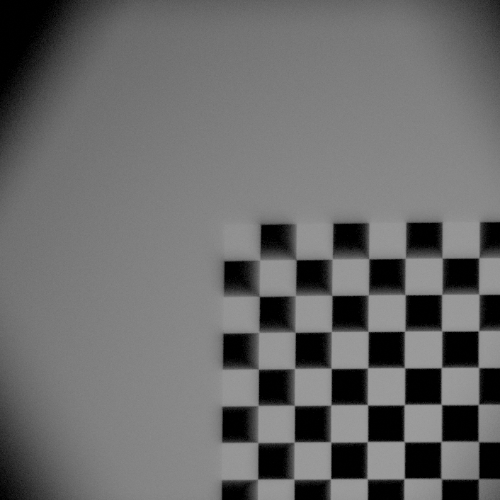
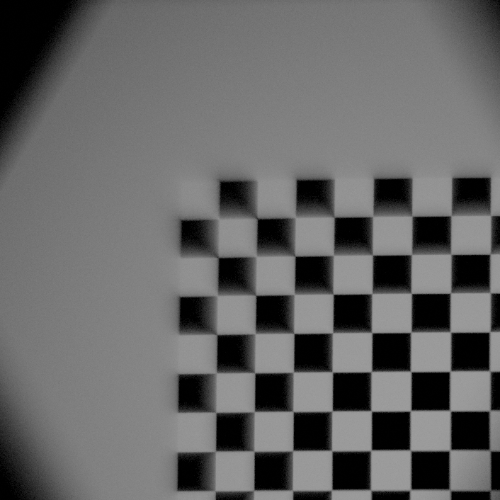
Improved Depth and new render

diff --git a/PlenopticViewer/depth.py b/PlenopticViewer/depth.py
@@ -1,7 +1,10 @@
 # Functions used to add depth sensing imaging to the GUI
 import tkinter as tk
 from tkinter import ttk
+
+import HDR
 import parallax
+from PIL import Image, ImageTk
 import cv2 as cv
 import numpy as np
 
@@ -30,14 +33,19 @@ class DepthPage(tk.Frame):
 
         # Find the main image fileName (middle image of the micro lens array)
         size = parallax.mml_size('par')
-        self.filename = parallax.image_filename('depth', int((size+1) / 2), int((size+1) / 2))
-        self.image = tk.PhotoImage(file='ParallaxAltered/' + self.filename)
+        self.filename = 'ParallaxAltered/' + parallax.image_filename('depth', int((size + 1) / 2), int((size + 1) / 2))
+
 
         # main image
+        depthMap = depth_calculate()
+        [sharp, averageValues, fullContours] = segment(depthMap, cv.imread(self.filename))
+        # make image displayable in tkinter
+        sharp = cv.cvtColor(sharp, cv.COLOR_BGR2RGB)
+        sharp = Image.fromarray(sharp)
+        self.image = ImageTk.PhotoImage(image=sharp)
+
         self.mainIm = tk.Label(self.slideImage, image=self.image)
         self.mainIm.grid(row=0, column=0)
-        depthMap = depth_calculate()
-        self.averageDepthMap = segment(depthMap)
         self.mainIm.bind("<B1-Motion>", self.show_depth)
 
         # Create parallax parameters frame in the left frame
@@ -151,7 +159,7 @@ def camera_calibrate():
     # find the points necessary for camera callibration
     ret, mtx, dist, rvecs, tvecs = cv.calibrateCamera(objpoints, imgpoints, gray.shape[::-1], None, None)
 
-    #read the required set of images (the parallax set for this application
+    # read the required set of images (the parallax set for this application
     imgArray = read_images('par')
     for i in range(0, size):
         for j in range(0, size):
@@ -164,45 +172,51 @@ def camera_calibrate():
             dst = cv.remap(img, mapx, mapy, cv.INTER_LINEAR)
             # crop the image
             x, y, w, h = roi
-            x = x+10
-            y = y+10
+            x = x + 10
+            y = y + 10
             # print('x :',x, ' y:  ',y, ' w: ',w, ' h: ',h)
             dst = dst[y:y + h - 10, x:x + w - 10]
             # resize the altered image to 500 pixels squared
             dst = cv.resize(dst, (500, 500))
-            filename = 'ParallaxAltered/' + parallax.image_filename('par', j+1, i+1)
+            filename = 'ParallaxAltered/' + parallax.image_filename('par', j + 1, i + 1)
             cv.imwrite(filename, dst)
             # cv.imshow('undistort', dst)
             # cv.waitKey(0)
 
 
-
-def depth_calculate(baseline=3, focalLength=4):
+def depth_calculate(baseline=0.05, focalLength=4, apSize=5):
     images = read_images('depth')
+    imageSize = images[1, 1].shape[0]
     size = parallax.mml_size('depth')
-    # find the middle two images- from which depth is calculated (only 2 are needed)
-    image1 = images[int((size * size) / 2)]
-    image2 = images[int((size * size) / 2 + size)]
+    # find the middle three images- from which depth is calculated (only 2 are needed)
+    image1 = images[int(size / 2), int(size / 2)]
+    image2 = images[int(size / 2) + 1, int(size / 2)]
+    image3 = images[int(size / 2) - 1, int(size / 2)]
 
-    cv.imshow('image1', image1)
-    cv.imshow('image2', image2)
+    # #median filter to remove drop pixels
+    # image1 = cv.medianBlur(image1, 3)
+    # image2 = cv.medianBlur(image2, 3)
 
+    # sharpen image
+    kernel = np.array([[-1, -1, -1], [-1, 9, -1], [-1, -1, -1]])
+    image1 = cv.filter2D(image1, -1, kernel)
+    image2 = cv.filter2D(image2, -1, kernel)
+    image3 = cv.filter2D(image3, -1, kernel)
 
-    #median filter to remove drop pixels
-    image1 = cv.medianBlur(image1, 3)
-    image2 = cv.medianBlur(image2, 3)
+    # cv.waitKey(0)
 
     # Set disparity parameters
     # Note: disparity range is tuned according to specific parameters obtained through trial and error.
     # allow users to tune
     # Create Block matching object.
     minDisparity = 0
-    numDisparities = 30
+    [a, horShift, b] = HDR.align_images('par')
+    numDisparities = abs(int(horShift))  # use the shift calculated to align the images
     stereo = cv.StereoSGBM_create(numDisparities=numDisparities,
-                                  blockSize=5,
-                                  P1=8*3*5*5,
-                                  P2=32*3*5*5,
-                                  preFilterCap=31,
+                                  blockSize=10,
+                                  P1=8 * 3 * 5 * 5,
+                                  P2=32 * 3 * 5 * 5,
+                                  preFilterCap=10,
                                   uniquenessRatio=10,
                                   speckleRange=0,
                                   speckleWindowSize=0,
@@ -211,38 +225,53 @@ def depth_calculate(baseline=3, focalLength=4):
                                   mode=1)
     # Compute disparity map
     print("\nComputing the disparity  map...")
-    disparityMap = stereo.compute(image1, image2) + 1
-
-    print(disparityMap.dtype)
+    disparityMap1 = stereo.compute(image3, image1)
+    disparityMap2 = stereo.compute(image1, image2)
 
     # convert the disparity map to the depth map
     # baseline is the distance between the centre of each mml in um (entered in GUI by user)
     # focal length is the focal length of the MML entered by user
 
-    disparityMap = disparityMap.astype(np.float32)
-    # Scaling down the disparity values and normalizing them
-    disparityMap = (disparityMap / 16.0 - minDisparity) / numDisparities
-    #
-    # #apply heavy median filtering to remove all the speckling
-    # disparityMap = cv.medianBlur(disparityMap, 7)
+    disparityMap1 = disparityMap1.astype(np.float32)
+    disparityMap2 = disparityMap2.astype(np.float32)
 
-    cv.imshow('dismap', disparityMap)
-    depthMap = (baseline * focalLength) / disparityMap
-    cv.imshow('depth', depthMap)
-    cv.waitKey(0)
-    return depthMap
+    # combine both dispartiy maps (average where the intersection is)
+    fullDismap = np.zeros([imageSize, imageSize], dtype=np.float32)
+
+    fullDismap[0:imageSize, 0:imageSize - numDisparities] = disparityMap1[0:imageSize, numDisparities:imageSize]
+    fullDismap[0:imageSize, numDisparities:imageSize] = disparityMap2[0:imageSize, numDisparities:imageSize]
+
+    # average the overlap
+    fullDismap[0:imageSize, numDisparities:imageSize - numDisparities] = (fullDismap[0:imageSize,
+                                                                          numDisparities:imageSize - numDisparities] + disparityMap1[
+                                                                                                                       0:imageSize,
+                                                                                                                       numDisparities * 2:imageSize]) * 0.5
+
+    # replace all zero values with 17 ( this will scale down in the next step to a  (avoids divide by zero error)
+    result = np.where(fullDismap < 17)
+    listOfIndices = list(zip(result[0], result[1]))
+
+    for i in range(0, len(listOfIndices)):
+        fullDismap[listOfIndices[i]] = 17
+
+    # Scaling down the disparity values and normalizing them
+    fullDismap = (fullDismap / 16.0 - minDisparity) / numDisparities
+
+    # cv.imshow('fulldismap', fullDismap)
+
+    fullDepthMap = np.reciprocal(fullDismap)
+    fullDepthMap = fullDepthMap * (baseline * focalLength)
+    # cv.imshow('depth', fullDepthMap)
+    # cv.waitKey(0)
+
+    return fullDepthMap
 
 
 # segment the image
-def segment(depthMap):
+def segment(depthMap, image):
     size = parallax.mml_size('depth')
-    selection = int((size - 1) / 2)
-    filename = parallax.image_filename('depth', selection, selection)
-    filename = 'ParallaxAltered/' + filename
-    orImage = cv.imread(filename)
-
     # median filter the image to remove non essential fine details
-    median = cv.medianBlur(orImage, 3)
+    median = cv.medianBlur(image, 5)
 
     # resharpen
     kernel = np.array([[0, -1, 0],
@@ -250,45 +279,49 @@ def segment(depthMap):
                        [0, -1, 0]])
     sharp = cv.filter2D(src=median, ddepth=-1, kernel=kernel)
 
-    # draw contours onto image
-    # make image grey scale
-    imgray = cv.cvtColor(sharp, cv.COLOR_BGR2GRAY)
-    # Find Canny edges
-    edged = cv.Canny(imgray, 190, 200)
+    # cv.imshow('sharp', sharp)
+    averageValue = []
+    fullcontours = []
 
-    # dilate the image to join the contours
-    kernel = cv.getStructuringElement(cv.MORPH_ELLIPSE, (3, 3))
-    dilated = cv.dilate(edged, kernel)
-    contours, hierarchy = cv.findContours(dilated.copy(), cv.RETR_EXTERNAL, cv.CHAIN_APPROX_SIMPLE)
+    # find contours in image on each channel
+    for i in range(0, sharp.shape[2]):
+        # make image grey scale
+        im = sharp[:, :, i]
 
-    for index in range(0, len(contours)):
-        colour = np.random.randint(0, 255, size=(3,))
+        im = cv.medianBlur(im, 7)
+        # Find Canny edges
+        edged = cv.Canny(im, 0, 150, apertureSize=3, L2gradient=True)
 
-        # convert data types int64 to int
-        colour = (int(colour[0]), int(colour[1]), int(colour[2]))
-        print(colour)
-        cv.drawContours(sharp, contours, index, colour, cv.FILLED, 8, hierarchy)
+        # dilate the image to join the contours
+        kernel = cv.getStructuringElement(cv.MORPH_ELLIPSE, (3, 3))
+        dilated = cv.dilate(edged, kernel)
 
-    # # write contours into a mask within which the depth is averaged and return both the segmented image and the average
-    # # depth map
-    # averageDepthMap = np.zeros(orImage.shape, np.uint8)
-    #
-    # mask = np.zeros(orImage.shape[:2], np.uint8)
-    # for i in range(0, len(contours)):
-    #     contourArea = cv.contourArea(contours[i])
-    #     if contourArea > 10:
-    #         cv.drawContours(mask, contours, i, 255, -1)
-    #         cv.imshow('mask', mask)
-    #         smallDepthMap = cv.bitwise_and(depthMap, depthMap, mask=mask)
-    #         cv.imshow('smallDepthMap', smallDepthMap)
-    #         # find median of all non-zero values
-    #         median = np.median(np.nonzero(smallDepthMap))
-    #         # assign all non-zero values to the median value
-    #         averageSmallDepthMap = smallDepthMap
-    #         averageSmallDepthMap[np.nonzero(averageSmallDepthMap)] = median
-    #         cv.imshow('averageSmallDepthMap', averageSmallDepthMap)
-    #         averageDepthMap = np.add(averageDepthMap, averageSmallDepthMap)
-    #         cv.imshow('averageDepthMap', averageDepthMap)
-    #         cv.waitKey(0)
+        contours, hierarchy = cv.findContours(dilated, cv.RETR_EXTERNAL, cv.CHAIN_APPROX_SIMPLE)
 
-    return averageDepthMap
+        # draw contours onto image on each channel
+        for index in range(0, len(contours)):
+            colour = np.random.randint(0, 255, size=(3,))
+            mask = np.zeros((image.shape[0], image.shape[1]), np.uint8)
+            # convert data types int64 to int
+            colour = (int(colour[0]), int(colour[1]), int(colour[2]))
+            cv.drawContours(sharp, contours, index, colour, 3)
+
+            # create the mask
+            cv.drawContours(mask, contours, index, (255, 255, 255), cv.FILLED, 8, hierarchy)
+            # converting to its binary form
+            _, mask = cv.threshold(mask, 1, 255, cv.THRESH_BINARY)
+
+            noPoints = np.count_nonzero(mask)
+
+            # average the depth map within the contours
+            index = np.transpose(np.nonzero(mask))
+            # print(index[1])
+            sum = 0
+            for i in range(0, len(index)):
+                sum = sum + depthMap[index[i][0], index[i][1]]
+
+            averageValue.append([sum / noPoints])
+            fullcontours.append(contours)
+            print(fullcontours)
+
+    return sharp, averageValue, fullcontours

diff --git a/PlenopticViewer/home.py b/PlenopticViewer/home.py
@@ -130,45 +130,44 @@ class Reconstructed(tk.Frame):
 
 
 def reconstruct_image():
-    [a, horShiftLine, vertShiftLine] = HDR.align_images('par')
+    [a, shiftHor, shiftVert] = HDR.align_images('par')
+    shiftHor = abs(int(shiftHor))
+    shiftVert = abs(int(shiftVert))
     imageSet = depth.read_images('par')
-
-    horShiftLine = np.concatenate(([[0]], np.flip(vertShiftLine)), axis=0)
-    vertShiftLine = np.concatenate(([[0]], np.flip(horShiftLine)), axis=0)
-
-    print('horizontal line shift', horShiftLine)
-    print('vertical line shift', vertShiftLine)
+    print(shiftVert)
+    print(shiftHor)
 
     size = parallax.mml_size('par')
     imageSize = imageSet[1, 1].shape[0]
     # create an empty array to fill with the reconstructed image
-    horSize = imageSize
-    vertSize = imageSize
-
-    for i in range(0, horShiftLine.shape[0]):
-        horSize = int(horSize + horShiftLine[i])
-        vertSize = int(vertSize + vertShiftLine[i])
-
-    imageReconstruct = np.zeros([vertSize, horSize, 3], dtype=np.uint8)
-    print('size of full image: ', imageReconstruct.shape)
+    imageReconstruct = np.zeros([imageSize+shiftVert*2, imageSize+shiftHor*2, 3], dtype=np.uint8)
+    print(imageReconstruct.shape)
 
     # populate array
-    for i in range(0, size):  # do for half the image
-        for k in range(0, horShiftLine.shape[0]):
-            lowerHor = int(i * horShiftLine[k])
-            upperHor = int(i * horShiftLine[k] + imageSize)
-            for j in range(0, size):
-                lowerVert = 0
-                for z in range(0, horShiftLine.shape[0]):
-                    lowerVert = int(lowerVert + vertShiftLine[z])
-                    upperVert = int(imageSize +lowerVert)
-                    print(vertShiftLine[z])
-                    print('horizontal- Upper:', upperHor, 'Lower:', lowerHor)
-                    print('vertical- Upper:', upperVert, 'Lower:', lowerVert)
-                    imageReconstruct[lowerVert:upperVert, lowerHor: upperHor] = imageSet[i*size+k, j*size+z]
-                    cv.imshow('recon', imageReconstruct)
-                    cv.waitKey(0)
+    for i in range(0, size):
+        for j in range(0, size):
+            lowerHor = i*shiftHor
+            upperHor = i*shiftHor+imageSize
+            lowerVert = j*shiftVert
+            upperVert = j*shiftVert+imageSize
+            # print('horizontal- Upper:', upperHor, 'Lower:', lowerHor)
+            # print('vertical- Upper:', upperVert, 'Lower:', lowerVert)
 
+            imageReconstruct[lowerVert:upperVert, lowerHor: upperHor] = imageSet[i, j]
+            # cv.imshow('reconstructed', imageReconstruct)
+            # cv.waitKey(0)
+
+    # put the middle image in for best result
+    middle = int((size-1)/2)
+    imageReconstruct[shiftVert:shiftVert+imageSize, shiftHor: shiftHor+imageSize] = imageSet[middle, middle]
+
+    # change image into a form that works for tkinter
+    imageReconstruct = cv.cvtColor(imageReconstruct, cv.COLOR_BGR2RGB)
+    imageReconstruct = cv.resize(imageReconstruct, (500, 500))
+    imageReconstruct = Image.fromarray(imageReconstruct)
+    imageReconstruct = ImageTk.PhotoImage(image=imageReconstruct)
+
+    return imageReconstruct
 
     # # put the middle image in for best result
     # middle = int((size-1)/2)

diff --git a/PlenopticViewer/HDR.py b/PlenopticViewer/HDR.py
@@ -131,23 +131,14 @@ def align_images(name='HDR'):
 
     # print(horList)
     # print(vertList)
+    medHor = np.median(horList)
+    medVert = np.median(vertList)
 
-    if name == 'HDR':
-        # find the median horizontal and vertical shifts and use this for all the images (spacing is even)
-        medHor = np.median(horList)
-        medVert = np.median(vertList)
-
-        # for HDR take the median value of the shifts (there is variation here)
-        for i in range(0, size):
-            for j in range(0, size):
-                newShift[i * size + j, 1] = medHor * -(j - int((size - 1) / 2))
-                newShift[i * size + j, 0] = medVert * -(i - int((size - 1) / 2))
-    else:
-        horShiftLine = np.zeros([size-1, 1])
-        vertShiftLine = np.zeros([size-1, 1])
-        for k in range(0, size-1):
-            horShiftLine[k] = int(abs(np.median(horList[k*(size-1):k*(size-1)+1])))
-            vertShiftLine[k] = int(abs(np.median(vertList[k*(size-1):k*(size-1)+1])))
+    # for HDR take the median value of the shifts (there is variation here)
+    for i in range(0, size):
+        for j in range(0, size):
+            newShift[i * size + j, 1] = medHor * -(j - int((size - 1) / 2))
+            newShift[i * size + j, 0] = medVert * -(i - int((size - 1) / 2))
 
     # print(vertShiftLine)
 
@@ -177,7 +168,7 @@ def align_images(name='HDR'):
     #     imagesOutput.append(cropImage)
 
     #image output blank for image reconstructoin, shift values blank for HDR
-    return imagesOutput, horShiftLine, vertShiftLine
+    return imagesOutput, medHor, medVert
 
 
 # translating the image by a shift matrix using the transformation matrix
